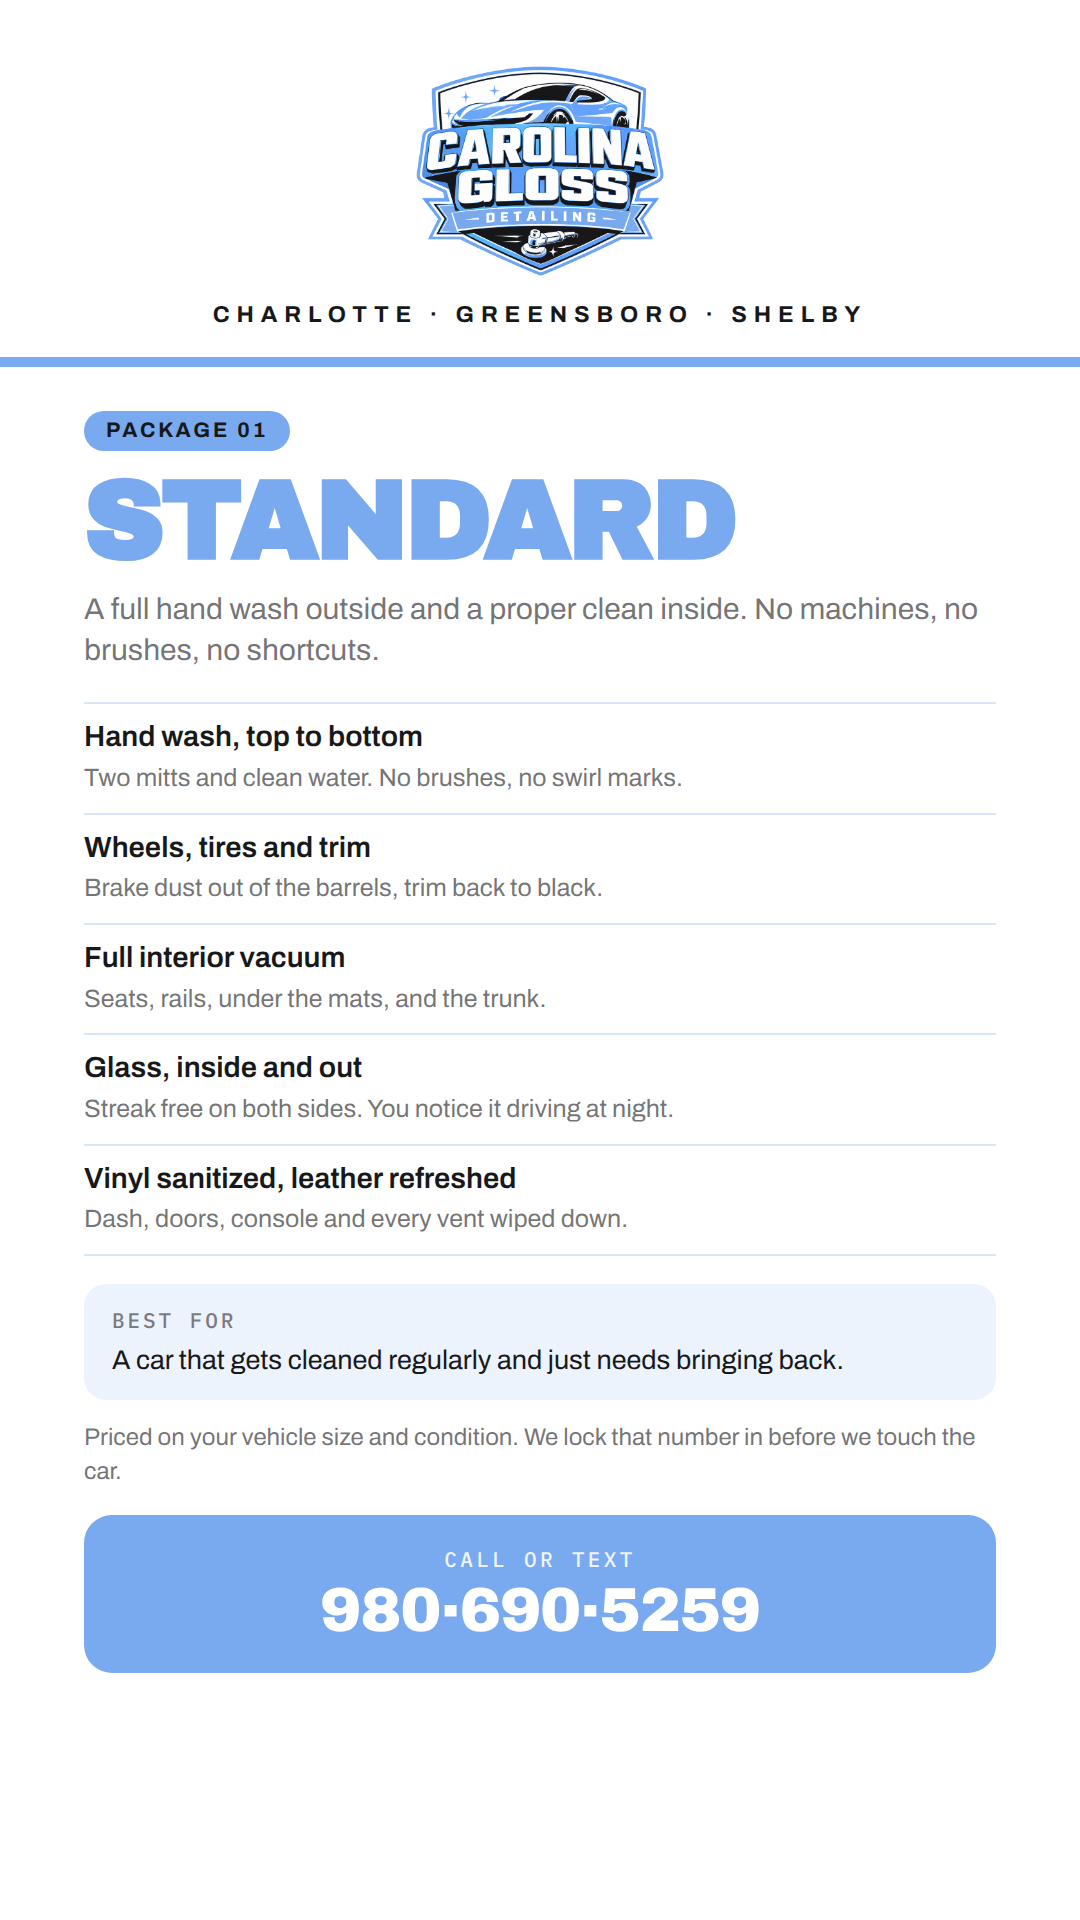
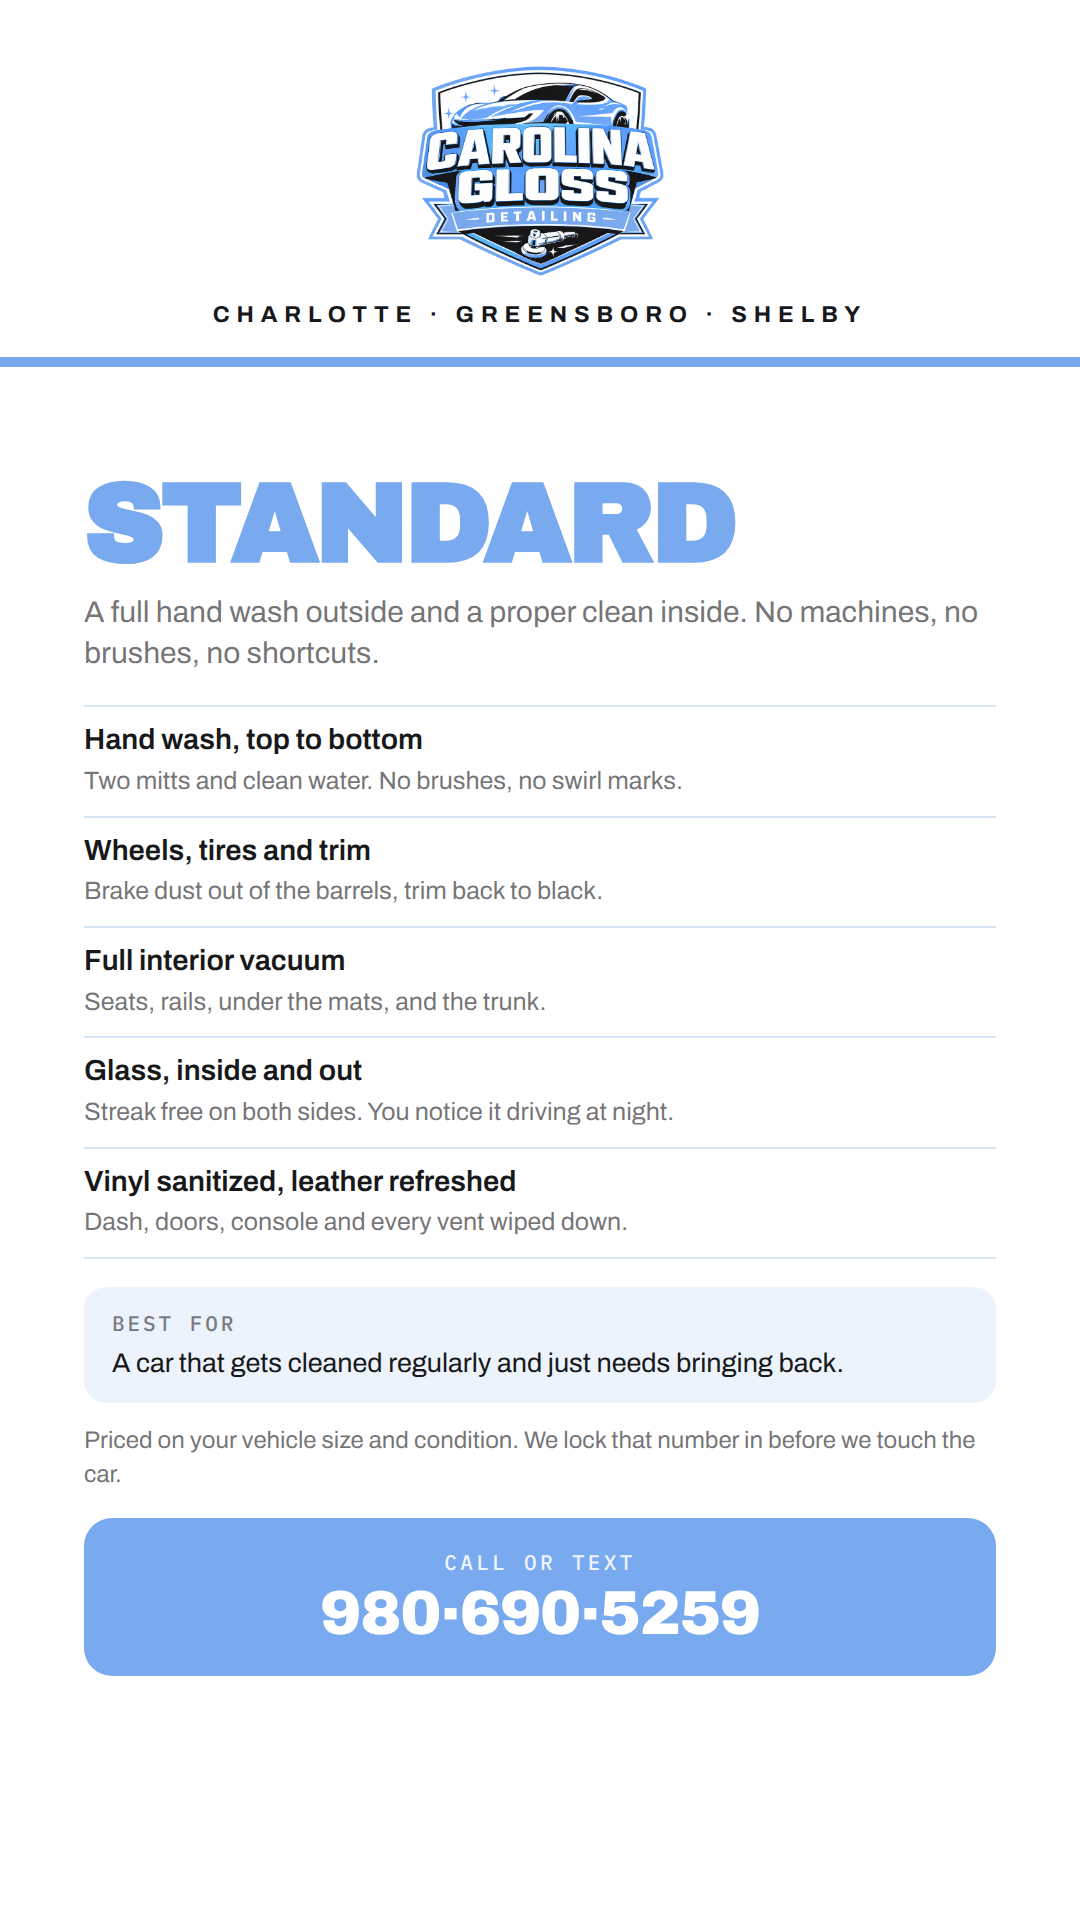
Drop the package number pills
The eyebrow row keeps a fixed height so all three frames still line up
row for row; on Gloss the Most Popular pill now sits alone in that row.

Claude-Session: https://claude.ai/code/session_016b3V5EjCTmSZMCSHy3XdSF

diff --git a/design/story-highlights/Story Highlights - Services.dc.html b/design/story-highlights/Story Highlights - Services.dc.html
@@ -31,9 +31,7 @@
       </div>
       <div style="flex:0 0 auto;height:10px;background:#79A9EE;"></div>
       <div style="flex:1 1 auto;padding:44px 84px 0;box-sizing:border-box;display:flex;flex-direction:column;">
-        <div style="display:flex;align-items:center;justify-content:space-between;gap:20px;">
-          <div style="background:#79A9EE;color:#17181A;border-radius:999px;padding:9px 22px;font:700 21px 'Archivo',sans-serif;letter-spacing:0.14em;">PACKAGE 01</div>
-        </div>
+        <div style="min-height:43px;display:flex;align-items:center;"></div>
         <h1 style="margin:20px 0 0;font-family:'Archivo Black',Helvetica,sans-serif;font-size:112px;line-height:0.9;letter-spacing:-0.03em;color:#79A9EE;text-transform:uppercase;">Standard</h1>
         <p style="margin:18px 0 0;font:400 30px/1.38 'Archivo',sans-serif;color:rgba(23,24,26,0.62);text-wrap:pretty;">A full hand wash outside and a proper clean inside. No machines, no brushes, no shortcuts.</p>
         <div style="margin-top:30px;"><div style="padding:17px 0;border-top:2px solid #D7E5F8;"><div style="font:600 29px/1.2 'Archivo',sans-serif;color:#17181A;">Hand wash, top to bottom</div><div style="margin-top:6px;font:400 25px/1.34 'Archivo',sans-serif;color:rgba(23,24,26,0.62);">Two mitts and clean water. No brushes, no swirl marks.</div></div><div style="padding:17px 0;border-top:2px solid #D7E5F8;"><div style="font:600 29px/1.2 'Archivo',sans-serif;color:#17181A;">Wheels, tires and trim</div><div style="margin-top:6px;font:400 25px/1.34 'Archivo',sans-serif;color:rgba(23,24,26,0.62);">Brake dust out of the barrels, trim back to black.</div></div><div style="padding:17px 0;border-top:2px solid #D7E5F8;"><div style="font:600 29px/1.2 'Archivo',sans-serif;color:#17181A;">Full interior vacuum</div><div style="margin-top:6px;font:400 25px/1.34 'Archivo',sans-serif;color:rgba(23,24,26,0.62);">Seats, rails, under the mats, and the trunk.</div></div><div style="padding:17px 0;border-top:2px solid #D7E5F8;"><div style="font:600 29px/1.2 'Archivo',sans-serif;color:#17181A;">Glass, inside and out</div><div style="margin-top:6px;font:400 25px/1.34 'Archivo',sans-serif;color:rgba(23,24,26,0.62);">Streak free on both sides. You notice it driving at night.</div></div><div style="padding:17px 0;border-top:2px solid #D7E5F8;border-bottom:2px solid #D7E5F8;"><div style="font:600 29px/1.2 'Archivo',sans-serif;color:#17181A;">Vinyl sanitized, leather refreshed</div><div style="margin-top:6px;font:400 25px/1.34 'Archivo',sans-serif;color:rgba(23,24,26,0.62);">Dash, doors, console and every vent wiped down.</div></div></div>
@@ -61,9 +59,7 @@
       </div>
       <div style="flex:0 0 auto;height:10px;background:#79A9EE;"></div>
       <div style="flex:1 1 auto;padding:44px 84px 0;box-sizing:border-box;display:flex;flex-direction:column;">
-        <div style="display:flex;align-items:center;justify-content:space-between;gap:20px;">
-          <div style="background:#79A9EE;color:#17181A;border-radius:999px;padding:9px 22px;font:700 21px 'Archivo',sans-serif;letter-spacing:0.14em;">PACKAGE 02</div><div style="flex:0 0 auto;background:#79A9EE;color:#17181A;border-radius:999px;padding:9px 20px;font:700 21px 'Archivo',sans-serif;letter-spacing:0.08em;">MOST POPULAR</div>
-        </div>
+        <div style="min-height:43px;display:flex;align-items:center;"><div style="flex:0 0 auto;background:#79A9EE;color:#17181A;border-radius:999px;padding:9px 20px;font:700 21px 'Archivo',sans-serif;letter-spacing:0.08em;">MOST POPULAR</div></div>
         <h1 style="margin:20px 0 0;font-family:'Archivo Black',Helvetica,sans-serif;font-size:112px;line-height:0.9;letter-spacing:-0.03em;color:#79A9EE;text-transform:uppercase;">Gloss</h1>
         <p style="margin:18px 0 0;font:400 30px/1.38 'Archivo',sans-serif;color:rgba(23,24,26,0.62);text-wrap:pretty;">Everything in Standard, then two steps that change how the car actually feels.</p>
         <div style="margin-top:30px;"><div style="padding:17px 0;border-top:2px solid #D7E5F8;"><div style="font:600 29px/1.2 'Archivo',sans-serif;color:#17181A;">Clay bar</div><div style="margin-top:6px;font:400 25px/1.34 'Archivo',sans-serif;color:rgba(23,24,26,0.62);">Pulls the grit washing cannot reach. Run your hand over the hood after.</div></div><div style="padding:17px 0;border-top:2px solid #D7E5F8;"><div style="font:600 29px/1.2 'Archivo',sans-serif;color:#17181A;">Hot water extraction</div><div style="margin-top:6px;font:400 25px/1.34 'Archivo',sans-serif;color:rgba(23,24,26,0.62);">Coffee, dog, kids, gym bag. Gone, not covered up.</div></div><div style="padding:17px 0;border-top:2px solid #D7E5F8;"><div style="font:600 29px/1.2 'Archivo',sans-serif;color:#17181A;">Two bucket wash</div><div style="margin-top:6px;font:400 25px/1.34 'Archivo',sans-serif;color:rgba(23,24,26,0.62);">Dirt goes in its own bucket, never back onto your paint.</div></div><div style="padding:17px 0;border-top:2px solid #D7E5F8;"><div style="font:600 29px/1.2 'Archivo',sans-serif;color:#17181A;">Leather and vinyl conditioned</div><div style="margin-top:6px;font:400 25px/1.34 'Archivo',sans-serif;color:rgba(23,24,26,0.62);">So it stops drying out and cracking in the Carolina sun.</div></div><div style="padding:17px 0;border-top:2px solid #D7E5F8;border-bottom:2px solid #D7E5F8;"><div style="font:600 29px/1.2 'Archivo',sans-serif;color:#17181A;">Wheels and tires, second pass</div><div style="margin-top:6px;font:400 25px/1.34 'Archivo',sans-serif;color:rgba(23,24,26,0.62);">Faces, barrels and lug seats done properly, then dressed.</div></div></div>
@@ -91,9 +87,7 @@
       </div>
       <div style="flex:0 0 auto;height:10px;background:#79A9EE;"></div>
       <div style="flex:1 1 auto;padding:44px 84px 0;box-sizing:border-box;display:flex;flex-direction:column;">
-        <div style="display:flex;align-items:center;justify-content:space-between;gap:20px;">
-          <div style="background:#79A9EE;color:#17181A;border-radius:999px;padding:9px 22px;font:700 21px 'Archivo',sans-serif;letter-spacing:0.14em;">PACKAGE 03</div>
-        </div>
+        <div style="min-height:43px;display:flex;align-items:center;"></div>
         <h1 style="margin:20px 0 0;font-family:'Archivo Black',Helvetica,sans-serif;font-size:112px;line-height:0.9;letter-spacing:-0.03em;color:#79A9EE;text-transform:uppercase;">Deluxe</h1>
         <p style="margin:18px 0 0;font:400 30px/1.38 'Archivo',sans-serif;color:rgba(23,24,26,0.62);text-wrap:pretty;">We strip it back first so the new protection actually bonds, then seal and wax it.</p>
         <div style="margin-top:30px;"><div style="padding:17px 0;border-top:2px solid #D7E5F8;"><div style="font:600 29px/1.2 'Archivo',sans-serif;color:#17181A;">Full clay bar</div><div style="margin-top:6px;font:400 25px/1.34 'Archivo',sans-serif;color:rgba(23,24,26,0.62);">The whole body decontaminated panel by panel, not a spot treatment.</div></div><div style="padding:17px 0;border-top:2px solid #D7E5F8;"><div style="font:600 29px/1.2 'Archivo',sans-serif;color:#17181A;">Chemical strip wash</div><div style="margin-top:6px;font:400 25px/1.34 'Archivo',sans-serif;color:rgba(23,24,26,0.62);">Old wax and road film off so the new protection bonds.</div></div><div style="padding:17px 0;border-top:2px solid #D7E5F8;"><div style="font:600 29px/1.2 'Archivo',sans-serif;color:#17181A;">Ceramic soap</div><div style="margin-top:6px;font:400 25px/1.34 'Archivo',sans-serif;color:rgba(23,24,26,0.62);">Lays down a slick layer. Water sheets straight off your paint.</div></div><div style="padding:17px 0;border-top:2px solid #D7E5F8;"><div style="font:600 29px/1.2 'Archivo',sans-serif;color:#17181A;">Hand wax and spray sealant</div><div style="margin-top:6px;font:400 25px/1.34 'Archivo',sans-serif;color:rgba(23,24,26,0.62);">Months of protection against pollen, sun and road salt.</div></div><div style="padding:17px 0;border-top:2px solid #D7E5F8;border-bottom:2px solid #D7E5F8;"><div style="font:600 29px/1.2 'Archivo',sans-serif;color:#17181A;">Interior shampooed and conditioned</div><div style="margin-top:6px;font:400 25px/1.34 'Archivo',sans-serif;color:rgba(23,24,26,0.62);">Comes back looking like a lease return.</div></div></div>

diff --git a/design/story-highlights/build.py b/design/story-highlights/build.py
@@ -29,7 +29,7 @@ PRICE_LINE = ("Priced on your vehicle size and condition. "
               "We lock that number in before we touch the car.")
 
 PACKAGES = [
-    dict(slug="01-standard", eyebrow="PACKAGE 01", title="Standard", popular=False,
+    dict(slug="01-standard", title="Standard", popular=False,
          sub="A full hand wash outside and a proper clean inside. "
              "No machines, no brushes, no shortcuts.",
          rows=[("Hand wash, top to bottom", "Two mitts and clean water. No brushes, no swirl marks."),
@@ -38,7 +38,7 @@ PACKAGES = [
                ("Glass, inside and out", "Streak free on both sides. You notice it driving at night."),
                ("Vinyl sanitized, leather refreshed", "Dash, doors, console and every vent wiped down.")],
          best="A car that gets cleaned regularly and just needs bringing back."),
-    dict(slug="02-gloss", eyebrow="PACKAGE 02", title="Gloss", popular=True,
+    dict(slug="02-gloss", title="Gloss", popular=True,
          sub="Everything in Standard, then two steps that change how the car actually feels.",
          rows=[("Clay bar", "Pulls the grit washing cannot reach. Run your hand over the hood after."),
                ("Hot water extraction", "Coffee, dog, kids, gym bag. Gone, not covered up."),
@@ -46,7 +46,7 @@ PACKAGES = [
                ("Leather and vinyl conditioned", "So it stops drying out and cracking in the Carolina sun."),
                ("Wheels and tires, second pass", "Faces, barrels and lug seats done properly, then dressed.")],
          best="Most people, and anyone whose car has not been detailed in a while."),
-    dict(slug="03-deluxe", eyebrow="PACKAGE 03", title="Deluxe", popular=False,
+    dict(slug="03-deluxe", title="Deluxe", popular=False,
          sub="We strip it back first so the new protection actually bonds, then seal and wax it.",
          rows=[("Full clay bar", "The whole body decontaminated panel by panel, not a spot treatment."),
                ("Chemical strip wash", "Old wax and road film off so the new protection bonds."),
@@ -111,9 +111,7 @@ body{{width:1080px;height:1920px;overflow:hidden;background:#fff;
  letter-spacing:0.3em;color:{ink};}}
 .bar{{flex:0 0 auto;height:10px;background:{blue};}}
 .body{{flex:1 1 auto;padding:44px 84px 0;display:flex;flex-direction:column;}}
-.eyebrow{{display:flex;align-items:center;justify-content:space-between;gap:20px;}}
-.eyebrow .tag{{background:{blue};color:{ink};border-radius:999px;padding:9px 22px;
- font:700 21px Archivo,sans-serif;letter-spacing:0.14em;}}
+.eyebrow{{min-height:43px;display:flex;align-items:center;}}
 h1{{margin:20px 0 0;font-family:'Archivo Black',Helvetica,sans-serif;font-size:112px;
  line-height:0.9;letter-spacing:-0.03em;color:{blue};text-transform:uppercase;}}
 .sub{{margin:18px 0 0;font:400 30px/1.38 Archivo,sans-serif;color:{muted};}}
@@ -134,7 +132,7 @@ h1{{margin:20px 0 0;font-family:'Archivo Black',Helvetica,sans-serif;font-size:1
 <div class="cities">{cities}</div></div>
 <div class="bar"></div>
 <div class="body">
-<div class="eyebrow"><div class="tag">{eyebrow}</div>{pill}</div>
+<div class="eyebrow">{pill}</div>
 <h1>{title}</h1>
 <p class="sub">{sub}</p>
 <div class="rows">{rows}</div>
@@ -143,7 +141,7 @@ h1{{margin:20px 0 0;font-family:'Archivo Black',Helvetica,sans-serif;font-size:1
 <div class="cta"><div class="lbl">CALL OR TEXT</div><div class="num">{phone}</div></div>
 </div></div></body></html>""".format(
         faces=faces, ink=INK, blue=BLUE, tint=TINT, muted=MUTED,
-        logo=logo_uri, cities=CITIES, eyebrow=pkg["eyebrow"], pill=pill,
+        logo=logo_uri, cities=CITIES, pill=pill,
         title=pkg["title"], sub=pkg["sub"], rows=rows, best=pkg["best"],
         price=PRICE_LINE, phone=PHONE)
 
@@ -218,9 +216,7 @@ def canvas_section(pkg, idx):
       </div>
       <div style="flex:0 0 auto;height:10px;background:{blue};"></div>
       <div style="flex:1 1 auto;padding:44px 84px 0;box-sizing:border-box;display:flex;flex-direction:column;">
-        <div style="display:flex;align-items:center;justify-content:space-between;gap:20px;">
-          <div style="background:{blue};color:{ink};border-radius:999px;padding:9px 22px;font:700 21px 'Archivo',sans-serif;letter-spacing:0.14em;">{eyebrow}</div>{pill}
-        </div>
+        <div style="min-height:43px;display:flex;align-items:center;">{pill}</div>
         <h1 style="margin:20px 0 0;font-family:'Archivo Black',Helvetica,sans-serif;font-size:112px;line-height:0.9;letter-spacing:-0.03em;color:{blue};text-transform:uppercase;">{title}</h1>
         <p style="margin:18px 0 0;font:400 30px/1.38 'Archivo',sans-serif;color:{muted};text-wrap:pretty;">{sub}</p>
         <div style="margin-top:30px;">{rows}</div>
@@ -237,7 +233,7 @@ def canvas_section(pkg, idx):
     </section>
   </div>
 """.format(label=pkg["slug"].replace("-", " ").title(), ink=INK, blue=BLUE,
-           tint=TINT, muted=MUTED, cities=CITIES, eyebrow=pkg["eyebrow"],
+           tint=TINT, muted=MUTED, cities=CITIES,
            pill=pill, title=pkg["title"], sub=pkg["sub"], rows="".join(rows),
            best=pkg["best"], price=PRICE_LINE, phone=PHONE)
 

diff --git a/design/story-highlights/COPY.md b/design/story-highlights/COPY.md
@@ -13,7 +13,7 @@ Rendered files live in `out/`. Rebuild with `python3 build.py`
 - CTA: `CALL OR TEXT` + `980·690·5259`. No hours and no website, so nothing on the image goes stale
 - Price line: "Priced on your vehicle size and condition. We lock that number in before we touch the car."
 
-## PACKAGE 01 — STANDARD
+## STANDARD
 
 A full hand wash outside and a proper clean inside. No machines, no brushes, no shortcuts.
 
@@ -27,7 +27,7 @@ A full hand wash outside and a proper clean inside. No machines, no brushes, no 
 
 **Best for** A car that gets cleaned regularly and just needs bringing back.
 
-## PACKAGE 02 — GLOSS  `MOST POPULAR`
+## GLOSS  `MOST POPULAR`
 
 Everything in Standard, then two steps that change how the car actually feels.
 
@@ -41,7 +41,7 @@ Everything in Standard, then two steps that change how the car actually feels.
 
 **Best for** Most people, and anyone whose car has not been detailed in a while.
 
-## PACKAGE 03 — DELUXE
+## DELUXE
 
 We strip it back first so the new protection actually bonds, then seal and wax it.
 
